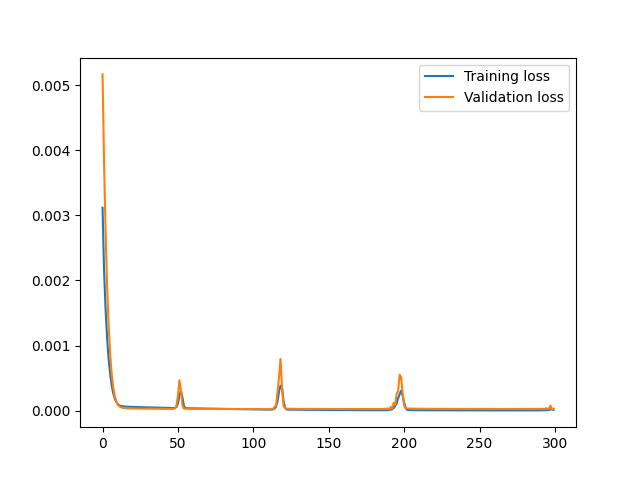
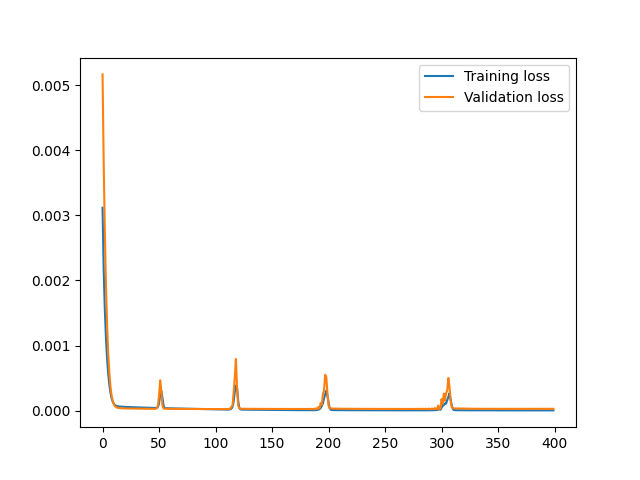
Misc code cleanup of LSTM

diff --git a/lstm/lstm_all_countries.py b/lstm/lstm_all_countries.py
@@ -11,13 +11,13 @@ from sklearn.metrics import mean_absolute_error
 from keras.models import Sequential
 from keras.layers import Dense
 from keras.layers import LSTM
-from keras.losses import MeanAbsolutePercentageError
 
 
 tf_random.set_seed(1)
 seed(1)
 
-def series_to_in_out_pairs(data, n_in=1, n_out=1, leave_cols=[]):
+
+def series_to_in_out_pairs(data, n_in=1, n_out=1, leave_cols=None):
     """
     :param data: pandas dataframe to be encoded
     :param n_in: number of consecutive lag observations used for prediction
@@ -25,14 +25,16 @@ def series_to_in_out_pairs(data, n_in=1, n_out=1, leave_cols=[]):
     :param leave_cols: variables to keep one of in input data
     :return: pandas dataframe with input-output pairs ready for supervised learning
     """
+    if leave_cols is None:
+        leave_cols = []
     scale_data = data[[col for col in list(data.columns) if col not in leave_cols]]
     cols, names = list(), list()
-    for i in range(n_in, 0, -1):
-        cols.append(scale_data.shift(i))
-        names += ["{:s}_(t-{:d})".format(col, i) for col in scale_data.columns]
-    for i in range(0, n_out):
-        cols.append(scale_data.shift(-i))
-        names += ["{:s}_(t+{:d})".format(col, i) for col in scale_data.columns]
+    for lag in range(n_in, 0, -1):
+        cols.append(scale_data.shift(lag))
+        names += ["{:s}_(t-{:d})".format(col, lag) for col in scale_data.columns]
+    for lag in range(0, n_out):
+        cols.append(scale_data.shift(-lag))
+        names += ["{:s}_(t+{:d})".format(col, lag) for col in scale_data.columns]
     aggregated = pd.concat(cols, axis=1)
     aggregated.columns = names
     if len(leave_cols) > 0:
@@ -126,7 +128,7 @@ model.compile(loss="mse", optimizer="adam")
 history = model.fit(
     train_x,
     train_y,
-    epochs=300,
+    epochs=400,
     batch_size=(date_to_number(end_date) - date_to_number(start_date) + 1),  # 1 Batch for each country
     validation_data=(test_x, test_y),
     verbose=2,
@@ -151,9 +153,9 @@ actual_test = scaler.inverse_transform(actual_test)
 y = actual_test[:, -1]
 
 mae = mean_absolute_error(y_hat, y)
-# Print Mean Absolute Error for all 1-day-ahead forecasts for all countries in the test set.
+# Print Mean Absolute Error for all 1-day-ahead forecasts for all countries in the validation set.
 # This is the average error of number of new cases per day per country.
-print("\nTest-set 1 step ahead MAE: {:.3f}\n".format(mae))
+print("\nValidation set 1 step ahead MAE: {:.3f}\n".format(mae))
 
 # Evaluate on aggregated set for all of Europe for first week of november
 euro_mean_data = forecast_data.groupby("date")[["latitude", "longitude", "stringency_index"]].mean().reset_index()
